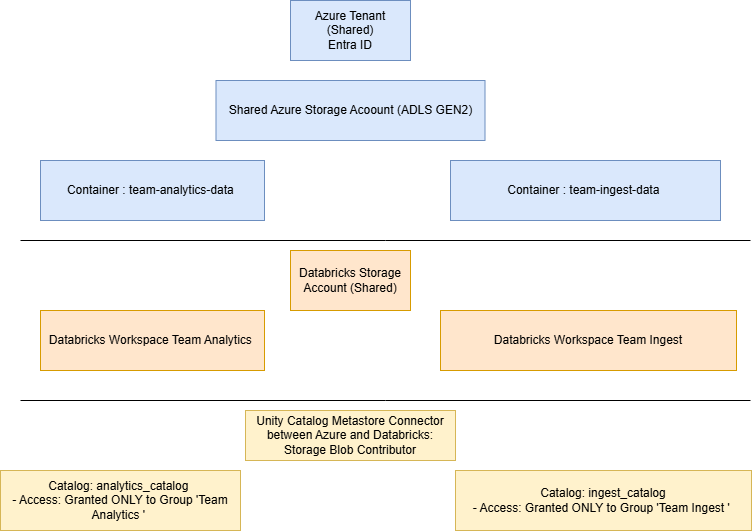
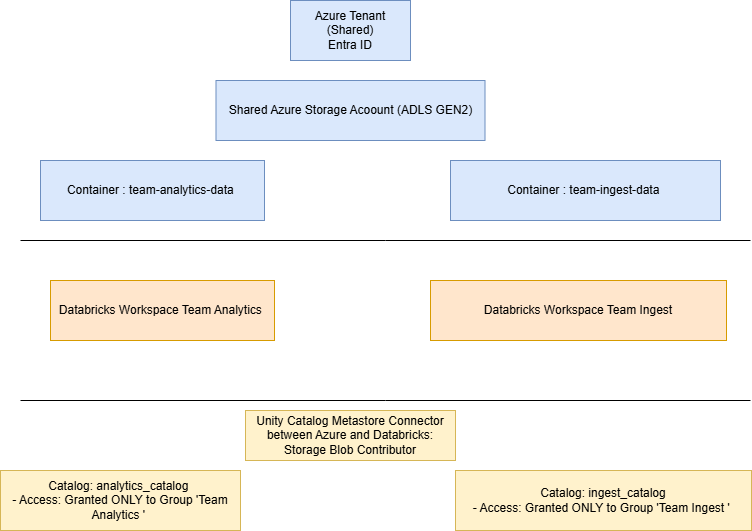
Architecture design 3 Layers Explained, next Terraform module

Changed region(s): [[0.0306, 0.452, 0.9787, 0.7232]]

diff --git a/README.md b/README.md
@@ -1,3 +1,35 @@
-# MAD Terri Isolation and Insfrasctucture: The What, How and Why
+# Access Separation for multiple teams: The What, How and Why
 
-![MAD_Terru_Architecture_Layers_Design](diagrams/MAD_Terri_Architecture_Layers_Design.png)
+![MAD_Terri_Architecture_Layers_Design](diagrams/MAD_Terri_Architecture_Layers_Design.png)
+
+## Storage and Insfrascture level
+
+Within Azure, there is a central Storage Account (ADLS Gen2) that contains 2 isolated containers per team: team -analytics-data, team- ingest-data.
+
+## Databricks Workspace level - Connecting to Azure
+
+Each team has its own Azure Databricks Workspace.
+
+At the top level, there is a single Shared Microsoft Entra ID Tenant, which is standard enterprise practice for central identity management.However, to enforce strict team isolation, I created dedicated Entra ID Security Groups per team, one for Team Analytics and one for Team Ingest.
+Microsoft Entra ID (Azure AD) Groups are created per team: grp-mad-analytics and grp-mad-ingest.
+
+Team members are assigned ONLY to their team’s workspace. Team Analytics members cannot log into the Ingest workspace, completely isolating notebooks, workflows, and job runs.
+
+Two key enforcements:
+
+1. Workspace Level: Only members of grp-mad-analytics can log into the Analytics Databricks Workspace.
+
+2. Unity Catalog Level: We assign data permissions explicitly to the groups. analytics_catalog grants access only to grp-mad-analytics, ensuring full data and code separation even though they share the underlying tenant and cloud subscription.
+
+## Data and Governance Level - Unity Catalog
+
+A single, centralized Unity Catalog Metastore governs data assets. Each team owns a dedicated Catalog (analytics_catalog, ingest_catalog).
+
+Unity Catalog explicit GRANT statements enforce data boundaries:
+
+  'GRANT USE CATALOG, CREATE SCHEMA ON CATALOG analytics_catalog TO grp-mad-analytics'
+
+Thus, Members of grp-mad-ingest have zero permissions on analytics_catalog.
+
+## Terraform: How easy it would be to add a third team later by reusing the same module -  IaC made Scalable
+
